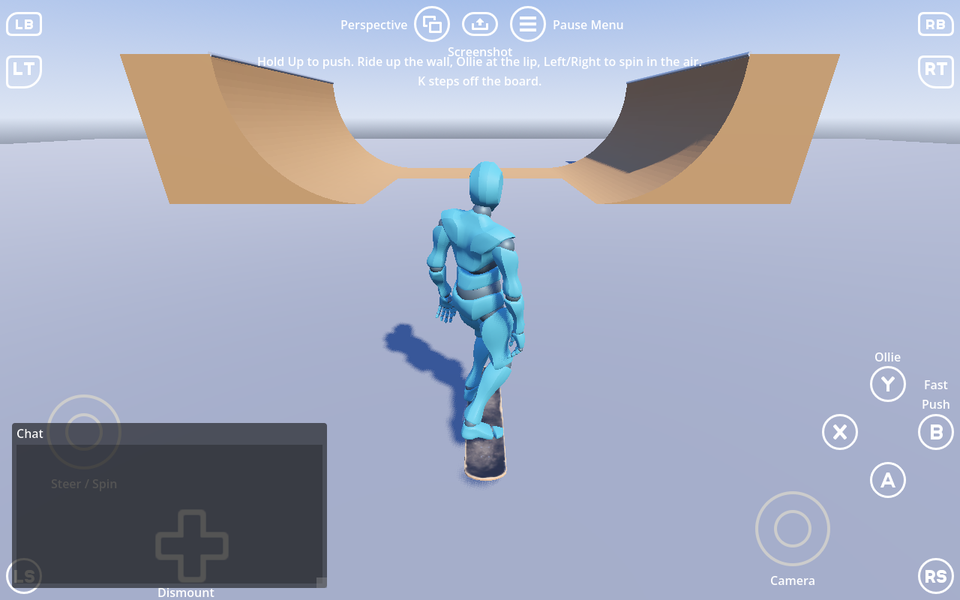
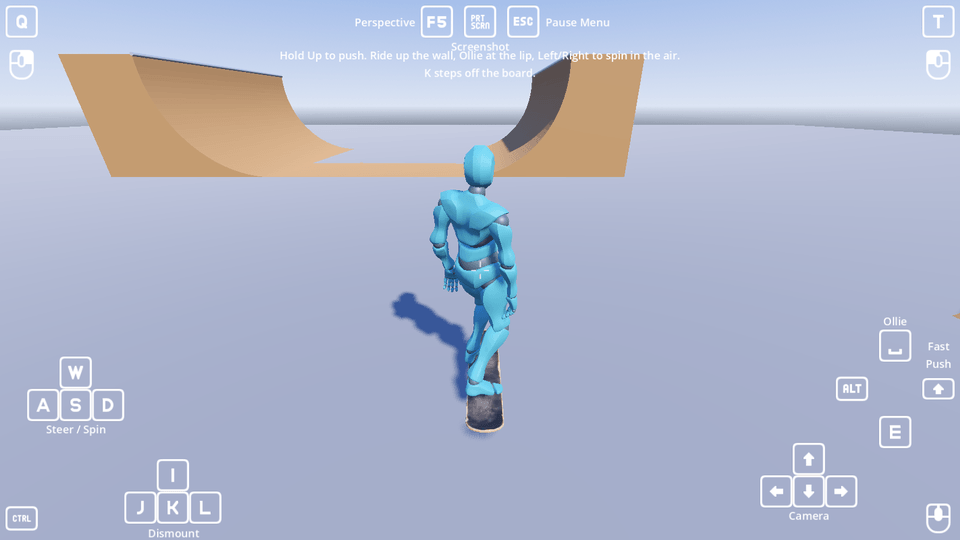
Recapture the preview at 960x540 through TinyPNG
Previews are 960x540, the size the portfolio site uses, and compressed
before committing. Captured at a true 16:9 1600x900, which needs
content_scale_aspect set to EXPAND at runtime because the project's
stretch aspect is keep on a 16:10 base.

The shot is from the ride itself, so the contextual labels show what the
addon actually adds rather than the on-foot defaults.

tools/make_preview.py does the resize and the compression in one step.

diff --git a/tools/tinyify.py b/tools/tinyify.py
@@ -1,0 +1,300 @@
+#!/usr/bin/env python3
+
+# Setup:
+# pip install Pillow tinify
+
+import argparse
+import importlib
+import os
+import sys
+from pathlib import Path
+
+Image = None
+PngInfo = None
+tinify = None
+
+META_OPTIMIZED = "TINYIFY_OPTIMIZED"
+META_METHOD = "TINYIFY_METHOD"
+META_ORIGINAL_SIZE = "TINYIFY_ORIGINAL_SIZE"
+
+
+def get_pillow_modules():
+	global Image, PngInfo
+	if Image is None or PngInfo is None:
+		try:
+			from PIL import Image as pillow_image
+			from PIL.PngImagePlugin import PngInfo as png_info_class
+		except ImportError:
+			print("[Error] Pillow is required. Install with: pip install Pillow")
+			sys.exit(1)
+		Image = pillow_image
+		PngInfo = png_info_class
+	return Image, PngInfo
+
+
+def get_tinify_module(api_key: str):
+	global tinify
+	if tinify is None:
+		try:
+			tinify = importlib.import_module("tinify")
+		except ImportError:
+			return None
+	tinify.key = api_key
+	return tinify
+
+
+# TINY_PNY_API_KEY is a typo for TINY_PNG_API_KEY that is what C:\GitHub\.env actually spells, so
+# it is accepted rather than silently ignored, which is why the TinyPNG engine never engaged.
+API_KEY_NAMES = {"TINY_PNG_API_KEY", "TINYPNG_API_KEY", "TINY_PNY_API_KEY"}
+
+
+def find_env_file(project_root: Path):
+	"""The .env beside the project, or the shared one in the directory the repositories sit in."""
+	for candidate in (project_root / ".env", *(p / ".env" for p in project_root.parents)):
+		if candidate.exists():
+			return candidate
+	return None
+
+
+def load_api_key(project_root: Path):
+	for name in API_KEY_NAMES:
+		key = os.getenv(name)
+		if key:
+			return key.strip()
+
+	env_path = find_env_file(project_root)
+	if env_path is None:
+		return None
+
+	try:
+		with env_path.open("r", encoding="utf-8") as env_file:
+			for raw_line in env_file:
+				line = raw_line.strip()
+				if not line or line.startswith("#") or "=" not in line:
+					continue
+
+				name, value = line.split("=", 1)
+				var_name = name.strip()
+				if var_name not in API_KEY_NAMES:
+					continue
+
+				cleaned = value.strip().strip('"').strip("'")
+				if cleaned:
+					return cleaned
+	except OSError as error:
+		print(f"[Warning] Could not read .env file: {error}")
+
+	return None
+
+
+def iter_png_files(root_dir_path: Path):
+	for file_path in root_dir_path.rglob("*"):
+		if file_path.is_file() and file_path.suffix.lower() == ".png":
+			yield file_path
+
+
+def build_png_text_metadata(image, method: str, original_size: tuple[int, int]):
+	_, png_info_class = get_pillow_modules()
+	png_info = png_info_class()
+
+	for key, value in image.info.items():
+		if isinstance(value, str):
+			png_info.add_text(key, value)
+
+	png_info.add_text(META_OPTIMIZED, "1")
+	png_info.add_text(META_METHOD, method)
+	png_info.add_text(META_ORIGINAL_SIZE, f"{original_size[0]}x{original_size[1]}")
+	return png_info
+
+
+def local_optimize_file(png_path: Path, max_size: int):
+	image_module, _ = get_pillow_modules()
+	with image_module.open(png_path) as image:
+		original_size = image.size
+		largest_edge = max(original_size)
+		resized = False
+
+		if largest_edge > max_size:
+			scale_ratio = max_size / float(largest_edge)
+			new_width = max(1, int(round(original_size[0] * scale_ratio)))
+			new_height = max(1, int(round(original_size[1] * scale_ratio)))
+			processed = image.resize((new_width, new_height), image_module.Resampling.LANCZOS)
+			resized = True
+		else:
+			processed = image.copy()
+
+		png_info = build_png_text_metadata(image, "local", original_size)
+		processed.save(png_path, format="PNG", optimize=True, pnginfo=png_info)
+
+	return original_size, processed.size, resized, "local"
+
+
+def tinypng_optimize_file(png_path: Path, max_size: int, tinify_module):
+	image_module, _ = get_pillow_modules()
+	with image_module.open(png_path) as image:
+		original_size = image.size
+		largest_edge = max(original_size)
+
+	source = tinify_module.from_file(str(png_path))
+	if largest_edge > max_size:
+		source = source.resize(method="fit", width=max_size, height=max_size)
+	source.to_file(str(png_path))
+
+	with image_module.open(png_path) as output_image:
+		optimized_size = output_image.size
+		png_info = build_png_text_metadata(output_image, "tinypng", original_size)
+		output_image.save(png_path, format="PNG", optimize=True, pnginfo=png_info)
+
+	resized = optimized_size != original_size
+	return original_size, optimized_size, resized, "tinypng"
+
+
+def optimize_pngs(root_dir_path: Path, max_size: int, engine: str, api_key):
+	image_module, _ = get_pillow_modules()
+
+	if not root_dir_path.exists() or not root_dir_path.is_dir():
+		print(f"[Error] Root directory '{root_dir_path}' does not exist or is not a directory.")
+		sys.exit(1)
+
+	root_dir_path = root_dir_path.resolve()
+	png_files = list(iter_png_files(root_dir_path))
+	if not png_files:
+		print(f"No .png files found in '{root_dir_path}'.")
+		return
+
+	use_tinypng = engine in {"auto", "tinypng"} and api_key is not None
+	tinify_module = get_tinify_module(api_key) if use_tinypng else None
+	if engine == "tinypng" and tinify_module is None:
+		print("[Error] TinyPNG engine requested, but tinify is not installed.")
+		print("Install with: pip install tinify")
+		sys.exit(1)
+
+	if use_tinypng and tinify_module is None:
+		print("[Warning] tinify is not installed. Falling back to local Pillow optimization.")
+		use_tinypng = False
+
+	if engine == "tinypng" and api_key is None:
+		print("[Error] TinyPNG engine requested, but no API key found in env/.env.")
+		sys.exit(1)
+
+	print("Engine: TinyPNG + local fallback" if use_tinypng else "Engine: Local Pillow")
+	print(f"Found {len(png_files)} .png files to process.")
+
+	processed_count = 0
+	resized_count = 0
+	skipped_count = 0
+	fallback_count = 0
+	fail_count = 0
+
+	tiny_errors = {
+		"AccountError",
+		"ClientError",
+		"ServerError",
+		"ConnectionError",
+	}
+
+	for png_file in png_files:
+		rel_path = png_file.relative_to(root_dir_path)
+
+		try:
+			with image_module.open(png_file) as image:
+				if image.info.get(META_OPTIMIZED) == "1":
+					skipped_count += 1
+					print(f"Skipped: {rel_path} (already optimized)")
+					continue
+
+			if use_tinypng:
+				try:
+					original_size, optimized_size, was_resized, method = tinypng_optimize_file(
+						png_file,
+						max_size,
+						tinify_module,
+					)
+				except Exception as error:
+					if type(error).__name__ in tiny_errors:
+						print(f"[Warning] TinyPNG failed for '{rel_path}': {error}")
+						print("[Warning] Falling back to local Pillow for this file.")
+						original_size, optimized_size, was_resized, method = local_optimize_file(
+							png_file,
+							max_size,
+						)
+						fallback_count += 1
+					else:
+						raise
+			else:
+				original_size, optimized_size, was_resized, method = local_optimize_file(
+					png_file,
+					max_size,
+				)
+
+			if was_resized:
+				resized_count += 1
+				print(
+					f"Resized ({method}): {rel_path} "
+					f"({original_size[0]}x{original_size[1]} -> "
+					f"{optimized_size[0]}x{optimized_size[1]})"
+				)
+			else:
+				print(f"Optimized ({method}): {rel_path} ({original_size[0]}x{original_size[1]})")
+			processed_count += 1
+		except OSError as error:
+			print(f"[Error] Failed to process '{rel_path}': {error}")
+			fail_count += 1
+		except Exception as error:
+			print(f"[Error] Unexpected failure for '{rel_path}': {error}")
+			fail_count += 1
+
+	print("\nTinyify summary:")
+	print(f"Processed: {processed_count}")
+	print(f"Resized: {resized_count}")
+	print(f"Skipped: {skipped_count}")
+	if fallback_count > 0:
+		print(f"Fallback to local: {fallback_count}")
+	if fail_count > 0:
+		print(f"Failed: {fail_count}")
+
+
+def main():
+	project_root = Path(__file__).resolve().parent.parent
+
+	parser = argparse.ArgumentParser(
+		description=(
+			"Recursively optimize PNG files in place, cap max edge, and tag files "
+			"with metadata so they are skipped on future runs."
+		)
+	)
+	parser.add_argument(
+		"root",
+		type=str,
+		nargs="?",
+		default=str(project_root),
+		help="Root directory to scan recursively (default: repository root)",
+	)
+	parser.add_argument(
+		"--max-size",
+		type=int,
+		default=512,
+		help="Maximum size in pixels for the largest image edge (default: 512)",
+	)
+	parser.add_argument(
+		"--engine",
+		choices=["auto", "local", "tinypng"],
+		default="auto",
+		help="Optimization engine: auto, local, or tinypng (default: auto)",
+	)
+	args = parser.parse_args()
+
+	if args.max_size <= 0:
+		print("[Error] --max-size must be greater than 0.")
+		sys.exit(1)
+
+	api_key = load_api_key(project_root)
+	optimize_pngs(Path(args.root), max_size=args.max_size, engine=args.engine, api_key=api_key)
+
+
+if __name__ == "__main__":
+	main()
+
+# Example:
+# python3 tools/tinyify.py
+# python3 tools/tinyify.py --engine tinypng

diff --git a/tools/make_preview.py b/tools/make_preview.py
@@ -1,0 +1,71 @@
+#!/usr/bin/env python3
+"""Turn an in-engine screenshot into a repository preview image.
+
+Previews are 960x540, the size the portfolio site at kirbycope.github.io uses, and are compressed
+through TinyPNG before they are committed.
+
+    python tools/make_preview.py <screenshot.png> <destination.png>
+
+The source should already be 16:9. A Godot project whose stretch aspect is "keep" on a 16:10 base
+letterboxes every window size back to 16:10, so set the root's content_scale_aspect to EXPAND at
+runtime before capturing rather than cropping afterwards and losing the edges of the HUD.
+"""
+
+from __future__ import annotations
+
+import sys
+from pathlib import Path
+
+WIDTH, HEIGHT = 960, 540
+
+
+def main() -> int:
+    if len(sys.argv) != 3:
+        print(__doc__)
+        return 2
+
+    source, dest = Path(sys.argv[1]), Path(sys.argv[2])
+    if not source.exists():
+        sys.exit(f"No such screenshot: {source}")
+
+    from PIL import Image
+
+    image = Image.open(source)
+    ratio = image.width / image.height
+    target = WIDTH / HEIGHT
+    if abs(ratio - target) > 0.01:
+        print(f"[Warning] {source.name} is {image.width}x{image.height} ({ratio:.2f}), not 16:9 "
+              f"({target:.2f}). It will be centre-cropped, which trims the edges of the HUD.")
+        if ratio > target:
+            new_width = int(image.height * target)
+            left = (image.width - new_width) // 2
+            image = image.crop((left, 0, left + new_width, image.height))
+        else:
+            new_height = int(image.width / target)
+            top = (image.height - new_height) // 2
+            image = image.crop((0, top, image.width, top + new_height))
+
+    image = image.convert("RGB").resize((WIDTH, HEIGHT), Image.LANCZOS)
+    dest.parent.mkdir(parents=True, exist_ok=True)
+    image.save(dest, "PNG", optimize=True)
+    resized = dest.stat().st_size
+
+    sys.path.insert(0, str(Path(__file__).parent))
+    import tinyify
+
+    key = tinyify.load_api_key(Path.cwd())
+    if key is None:
+        print(f"{dest}: {WIDTH}x{HEIGHT}, {resized:,} bytes. No TinyPNG key found, not compressed.")
+        return 0
+
+    tinify = tinyify.get_tinify_module(key)
+    tinify.from_file(str(dest)).to_file(str(dest))
+    final = dest.stat().st_size
+    print(f"{dest}: {WIDTH}x{HEIGHT}, {resized:,} -> {final:,} bytes "
+          f"({100 - final * 100 // resized}% off with TinyPNG)")
+    print(f"TinyPNG compressions used this month: {tinify.compression_count}")
+    return 0
+
+
+if __name__ == "__main__":
+    sys.exit(main())
